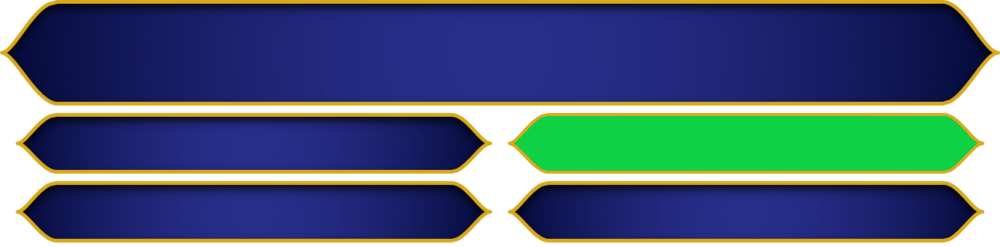
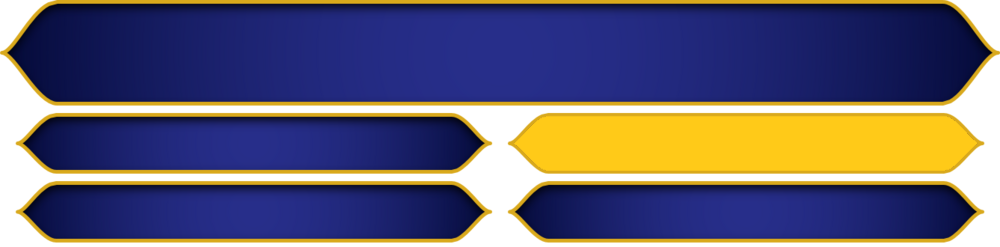
Add buttons highlight

Changed region(s): [[0.496, 0.4534, 0.992, 0.7085]]

diff --git a/script.js b/script.js
@@ -28,8 +28,8 @@ function disable_buttons() {
     }
 }
 
-function finishGame(index, correct) {
-    highlightAnswer(index, false);
+function finishGame(index, correct, timeIsOver) {
+    highlightAnswer(index, false, timeIsOver);
     let startButton = document.getElementById('start');
     let gameStatus = document.getElementById('st');
     let score = document.getElementById('sc');
@@ -66,12 +66,21 @@ function updateField() {
     picture.src = 'materials/question_field.png';
 }
 
-function highlightAnswer(btnIndex, next) {
+function highlightAnswer(btnIndex, next, timeIsOver) {
     let picture = document.getElementById('pct');
-    picture.src = `materials/${btnIndex}.png`;
-    disable_buttons();
-    if (next) {
-        let timeout = setTimeout('updateField()', 2000);
+    if (timeIsOver)
+        picture.src = `materials/${questions[status.length - 1][2]}_${questions[status.length - 1][2]}.png`;
+    else {
+        picture.src = `materials/${btnIndex}.png`;
+        disable_buttons();
+        setTimeout(showAnswer, 2000);
+        function showAnswer() {
+            picture.src = `materials/${btnIndex}_${questions[status.length - 2][2]}.png`;
+            setTimeout(() => {
+                if (next)
+                    updateField();
+            }, 1000);
+        }
     }
 }
 
@@ -87,7 +96,7 @@ function loadQuestion(btnIndex) {
 function eventHandler(btnIndex) {
     status[questionIndex] = true;
     if (questionIndex === questions.length && btnIndex === rightAnswer)
-        finishGame(btnIndex, true);
+        finishGame(btnIndex, true, false);
     else {
         if (btnIndex === 0) {
             startGame();
@@ -96,7 +105,7 @@ function eventHandler(btnIndex) {
         else if (btnIndex === rightAnswer)
             loadQuestion(btnIndex);
         else
-            finishGame(btnIndex, false);
+            finishGame(btnIndex, false, false);
     }
 }
 
@@ -107,7 +116,7 @@ function startTimer(index) {
     function frame() {
         if (width <= 0) {
             clearInterval(id);
-            finishGame(index, false);
+            finishGame(index, false, true);
         }
         if (status[index + 1] === true) {
             clearInterval(id);
